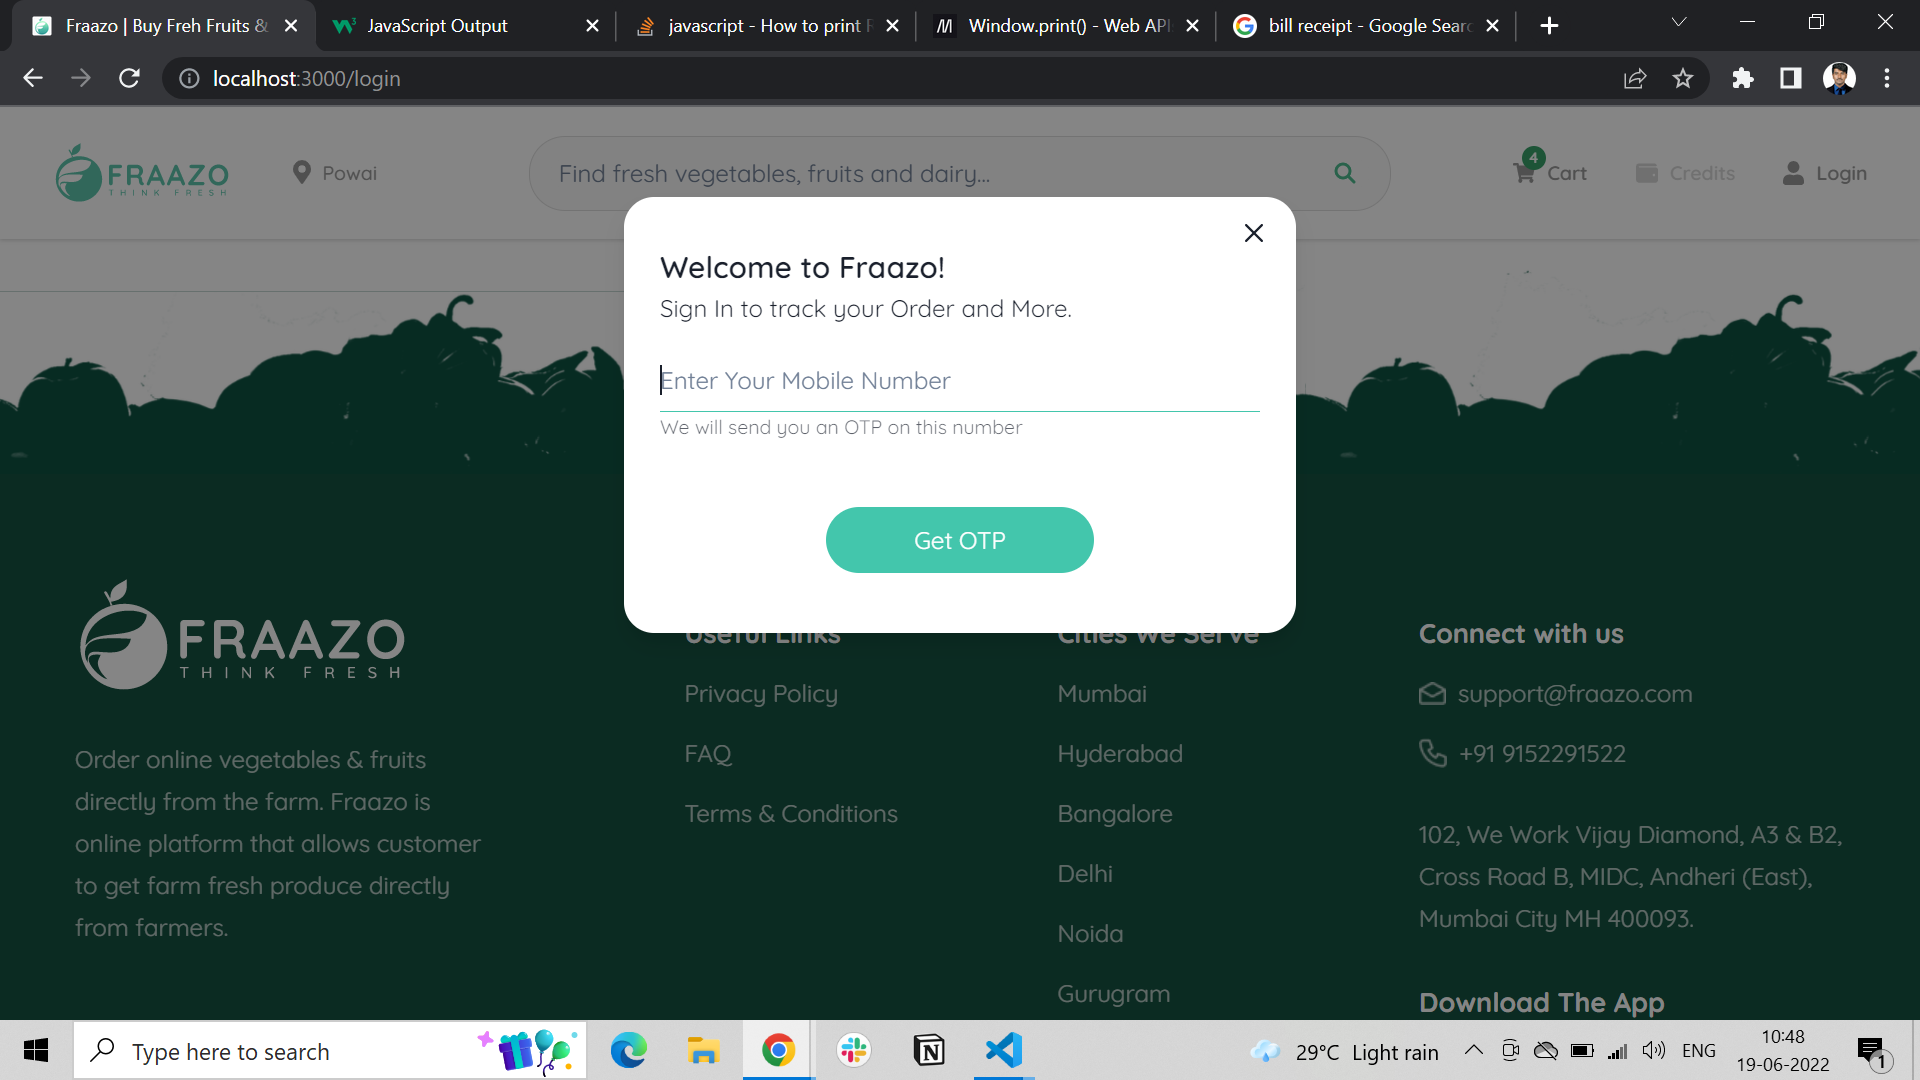
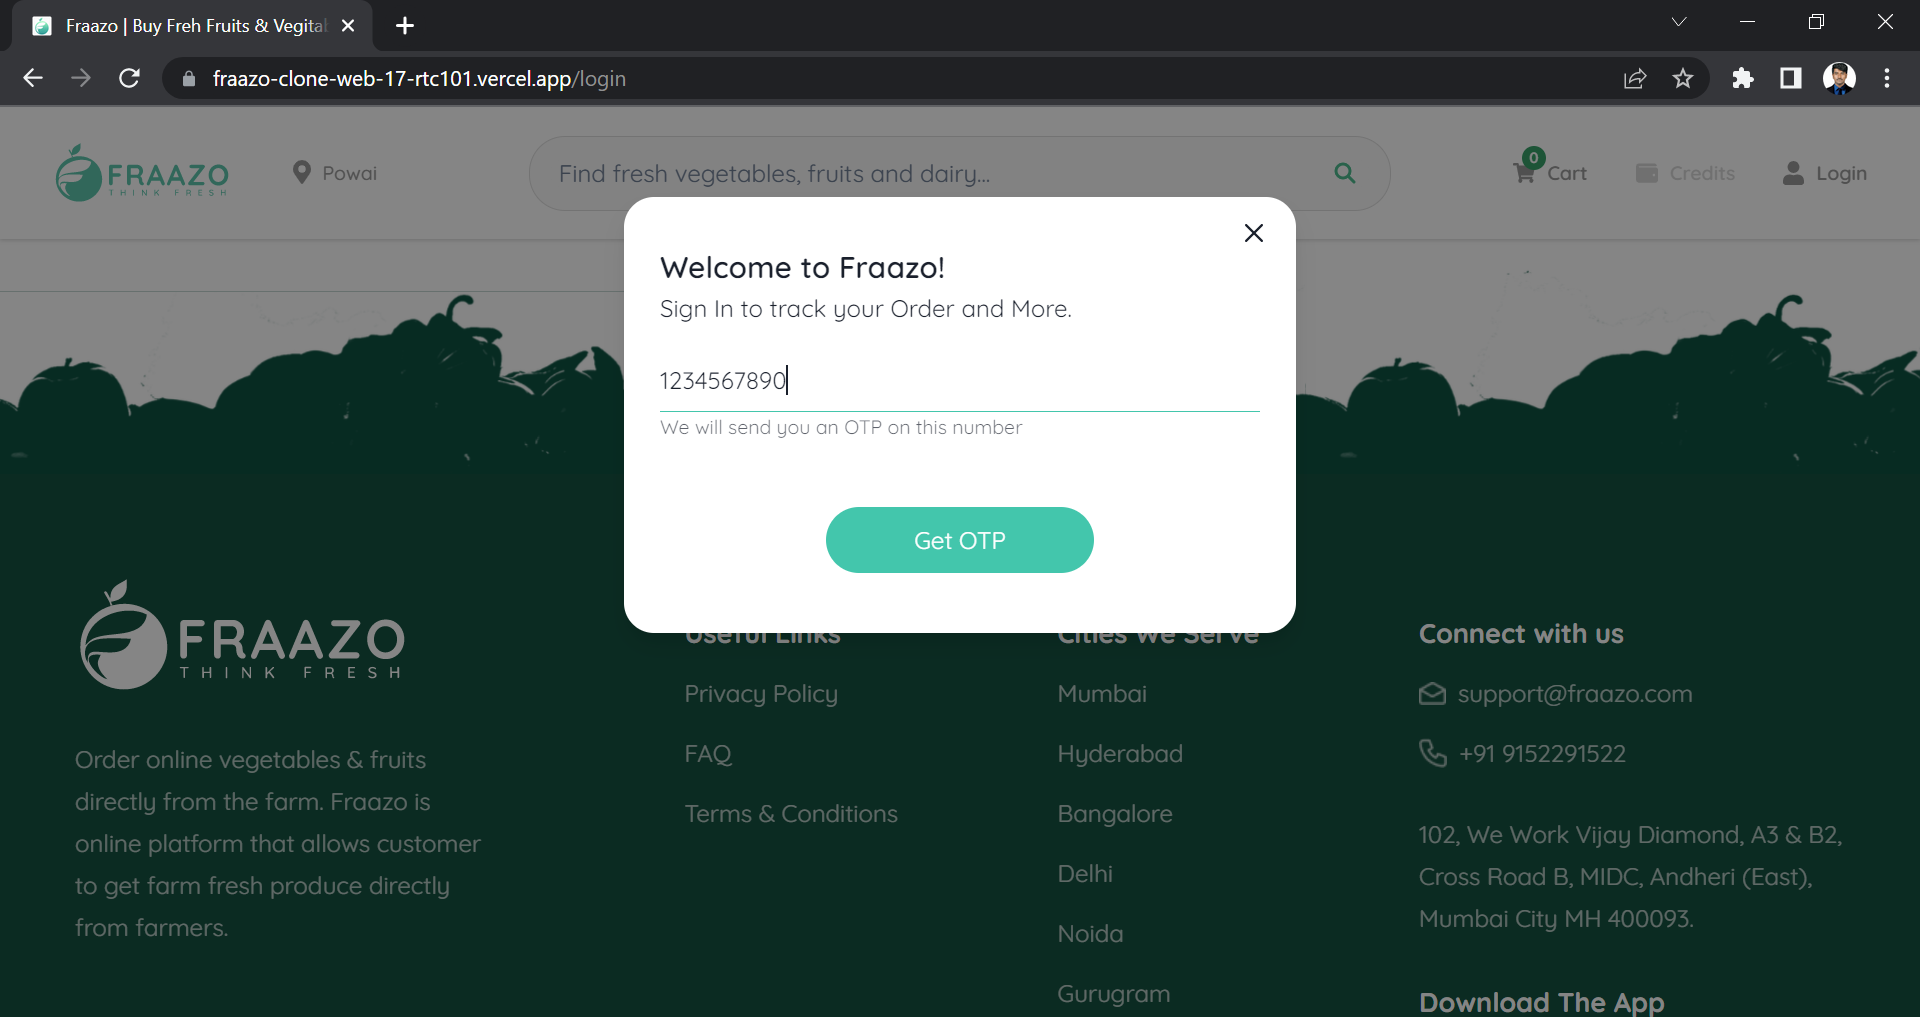
readme file and all done

diff --git a/README.md b/README.md
@@ -1,27 +1,27 @@
 # “Fraazo.com” Website Clone
 
+![Homepage ](./screenshots/HomePage.png)
 
-![Homepage ](https://cdn-images-1.medium.com/max/1200/1*fK5Uknv65Fe4joghIJLvWg.png)
 ### Fraazo is the online online store to buy fresh fruits and vegetables, herbs and dry fruits.
 
 This project is about building a web application to buy wide variety of fresh fruits and vegetables. It have some cool features like save the data in redux-store and session-storage to reduce the dependency of network requests, toast notification for every action, pop up modal to display extra details and responsive for every screen size.
 
-
-
 ## Technologies we used
-[![React](https://img.shields.io/badge/React_(17.0.2)-20232A?style=for-the-badge&logo=react&logoColor=61DAFB)](https://github.com/tterb/atomic-design-ui/blob/master/LICENSEs)
 
-[![GPLv3 License](https://img.shields.io/badge/Redux_(4.1.2)-593D88?style=for-the-badge&logo=redux&logoColor=white)](https://opensource.org/licenses/)
+[![React](<https://img.shields.io/badge/React_(17.0.2)-20232A?style=for-the-badge&logo=react&logoColor=61DAFB>)](https://reactjs.org/)
 
-[![AGPL License](https://img.shields.io/badge/Chakra%20UI-3bc7bd?style=for-the-badge&logo=chakraui&logoColor=white)](http://www.gnu.org/licenses/agpl-3.0)
+[![GPLv3 License](<https://img.shields.io/badge/Redux_(4.1.2)-593D88?style=for-the-badge&logo=redux&logoColor=white>)](https://redux.js.org/)
 
-[![AGPL License](https://img.shields.io/badge/Rest_API-02303A?style=for-the-badge&logo=react-router&logoColor=white)](http://www.gnu.org/licenses/agpl-3.0)
+[![AGPL License](https://img.shields.io/badge/Chakra%20UI-3bc7bd?style=for-the-badge&logo=chakraui&logoColor=white)](https://chakra-ui.com/)
 
-[![AGPL License](https://img.shields.io/badge/CSS3-1572B6?style=for-the-badge&logo=css3&logoColor=white)](http://www.gnu.org/licenses/agpl-3.0)
+[![AGPL License](https://img.shields.io/badge/Rest_API-02303A?style=for-the-badge&logo=react-router&logoColor=white)](https://www.npmjs.com/package/json-server)
+
+[![AGPL License](https://img.shields.io/badge/Styled-Component-orange)](https://styled-components.com/)
 
 ## 🚀 Features
+
 - Login/Signup User Account
-- Searching product with Debouncing feature 
+- Searching product with Debouncing feature
 - Cart Add/Remove Items
 - Pop modal and Toast notification
 - Cart Update Quantities
@@ -29,15 +29,13 @@ This project is about building a web application to buy wide variety of fresh fr
 - Address Management
 - Order Summary
 - Coupons are provided for the discount
-- Responsive for every screen size.
 - Order details of all ordered item
 
 ## 🚀 Our Team Members:-
 
+- Ramesh [[LinkedIn Profile](https://www.linkedin.com/in/ramesh-mane-268a0014a/)]
 
-- Ramesh [[LinkedIn Profile](https://www.linkedin.com/in/vishwaskumar99)]
-
-- Shriram [[LinkedIn Profile](https://www.linkedin.com/in/vishal-kumar-42261922b/)]
+- Shriram [[LinkedIn Profile](https://www.linkedin.com/in/shriram-deshpande-477590136/)]
 
 - Sarbjot Singh [[LinkedIn Profile](https://www.linkedin.com/in/sarbjot-/)]
 
@@ -47,7 +45,6 @@ This project is about building a web application to buy wide variety of fresh fr
 
 - Thanigaivel Ambalavanan [[LinkedIn Profile](https://www.linkedin.com/in/thanigaivel-ambalavanan-3b4a30120/)]
 
-
 ## Screenshots
 
 #### Homepage -
@@ -56,32 +53,31 @@ This is the main landing page of our website. Here clicking on any option on the
 
 This page is functional and responsive.
 
-![Homepage ](https://cdn-images-1.medium.com/max/1200/1*fK5Uknv65Fe4joghIJLvWg.png)
+![Homepage ](./screenshots/HomePage.png)
 
 #### Navigation bar -
 
 If the user clicks on the SignUp/login page it shows the pages of that section and also Searching of product with debouncing feature.
 
-![Navigation bar](https://cdn-images-1.medium.com/max/1200/1*1bm-kD9lPa_cqTp8MXLMYw.png)
+![Navigation bar](./screenshots/SearchBox.png)
 
 #### Sign up / Sign in Page -
 
 On this page, you can register a user. If the user is already registered, you can simply sign in by providing valid details of the user.
 
-![Sign up](https://cdn-images-1.medium.com/max/1200/1*_dgmZ27CUl1pvx6vHEXbOQ.png)
-
+![Sign up](./screenshots/Login.png)
 
 #### Products Page -
 
 Here users can browse and add items to the cart by clicking on the Add to Cart button.
 
-![Products Page](https://cdn-images-1.medium.com/max/1200/1*sPm7SSGhhcpODL2wGmDOWg.png)
+![Products Page](./screenshots/ProductsPage.png)
 
 #### Cart Page -
 
 Here all the products added to the cart will be shown. On this page, you can also remove the items. By clicking on the “CHECKOUT” button you will be redirected to the checkout page.
 
-![Cart](https://cdn-images-1.medium.com/max/1200/1*I5GnEEX-SwfiTxa1-JMHAA.png)
+![Cart](./screenshots/Cart.png)
 
 #### Payment Page -
 
@@ -89,28 +85,34 @@ On this page, users can add their address details and add their payment details.
 
 By providing these details users can place orders by clicking the “PLACE ORDER” button.
 
-![Products Page](https://cdn-images-1.medium.com/max/720/1*m1DXB1dft_IgjBkWILQMYw.png)
-After Proceeding users get this screen-
+![Products Page](./screenshots/PaymentPage.png)
 
-![Products Page](https://cdn-images-1.medium.com/max/720/1*eD7G5CwFRHHogwwcloTdWQ.png)
+After Proceeding users get will get OTP page
+
+![OTP Page](./screenshots/OTPPaget.png)
+
+If user entered correct OTP it will redirect to payment succefull page or elese it entered wrong it will get error as wrong OTP
+
+![Products Page](./screenshots/PaymentSuccefull.png)
 
 After Payment Success you will be redirected to the Home Page.
 
+In case you clicked on cancel on OTP Page it will redirect to this page.
 
-
+![Products Page](./screenshots/PaymentFail.png)
 
 ## Run Locally
 
 Clone the project
 
 ```bash
-  git clone https://link-to-project
+  git clone https://github.com/shriram083/Fraazo-Clone.git
 ```
 
 Go to the project directory
 
 ```bash
-  cd my-project
+  cd Fraazo-Clone
 ```
 
 Install dependencies
@@ -119,14 +121,24 @@ Install dependencies
   npm install
 ```
 
+Start the localhost server
+
+```bash
+  npm start
+```
+
 Start the local API server
 
 ```bash
   json-server --watch data.json --port 8080
 ```
 
-Start the live server from index.html or refer to deploy link
+## Or refer any one deployed link
 
-```bash
-  https://sarb908.github.io/Fraazo/
-```
+### Netlify Link
+
+[https://fraazo-clone-web-17.netlify.app/](https://fraazo-clone-web-17.netlify.app/)
+
+### Vercel Link
+
+[https://fraazo-clone-web-17-rtc101.vercel.app//](https://fraazo-clone-web-17-rtc101.vercel.app/)
